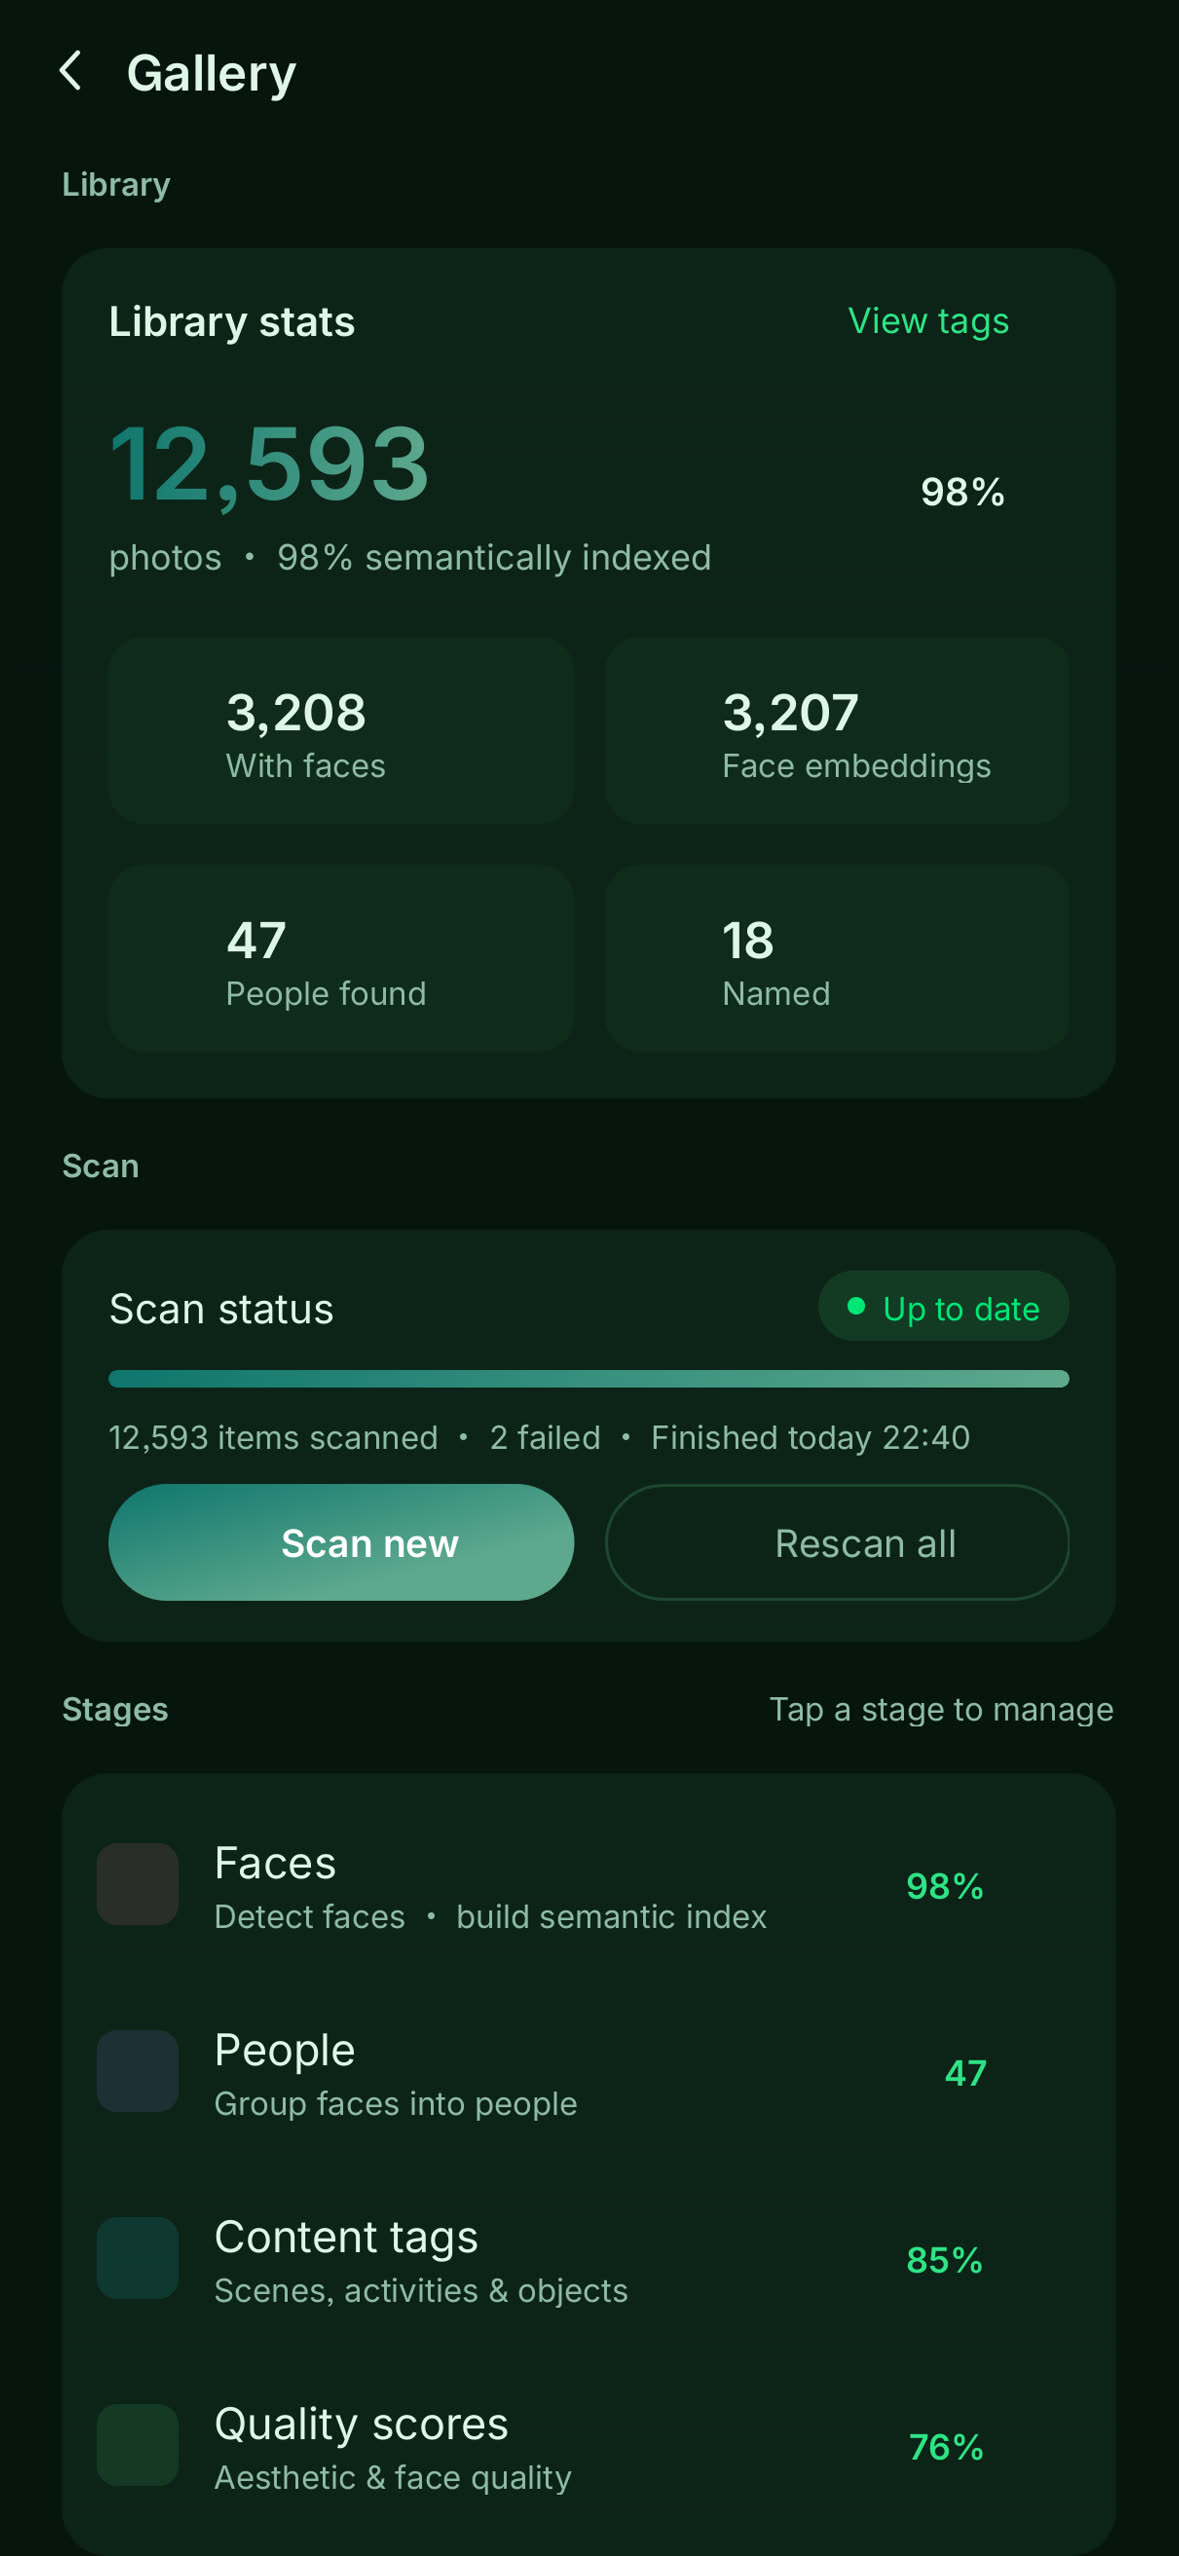
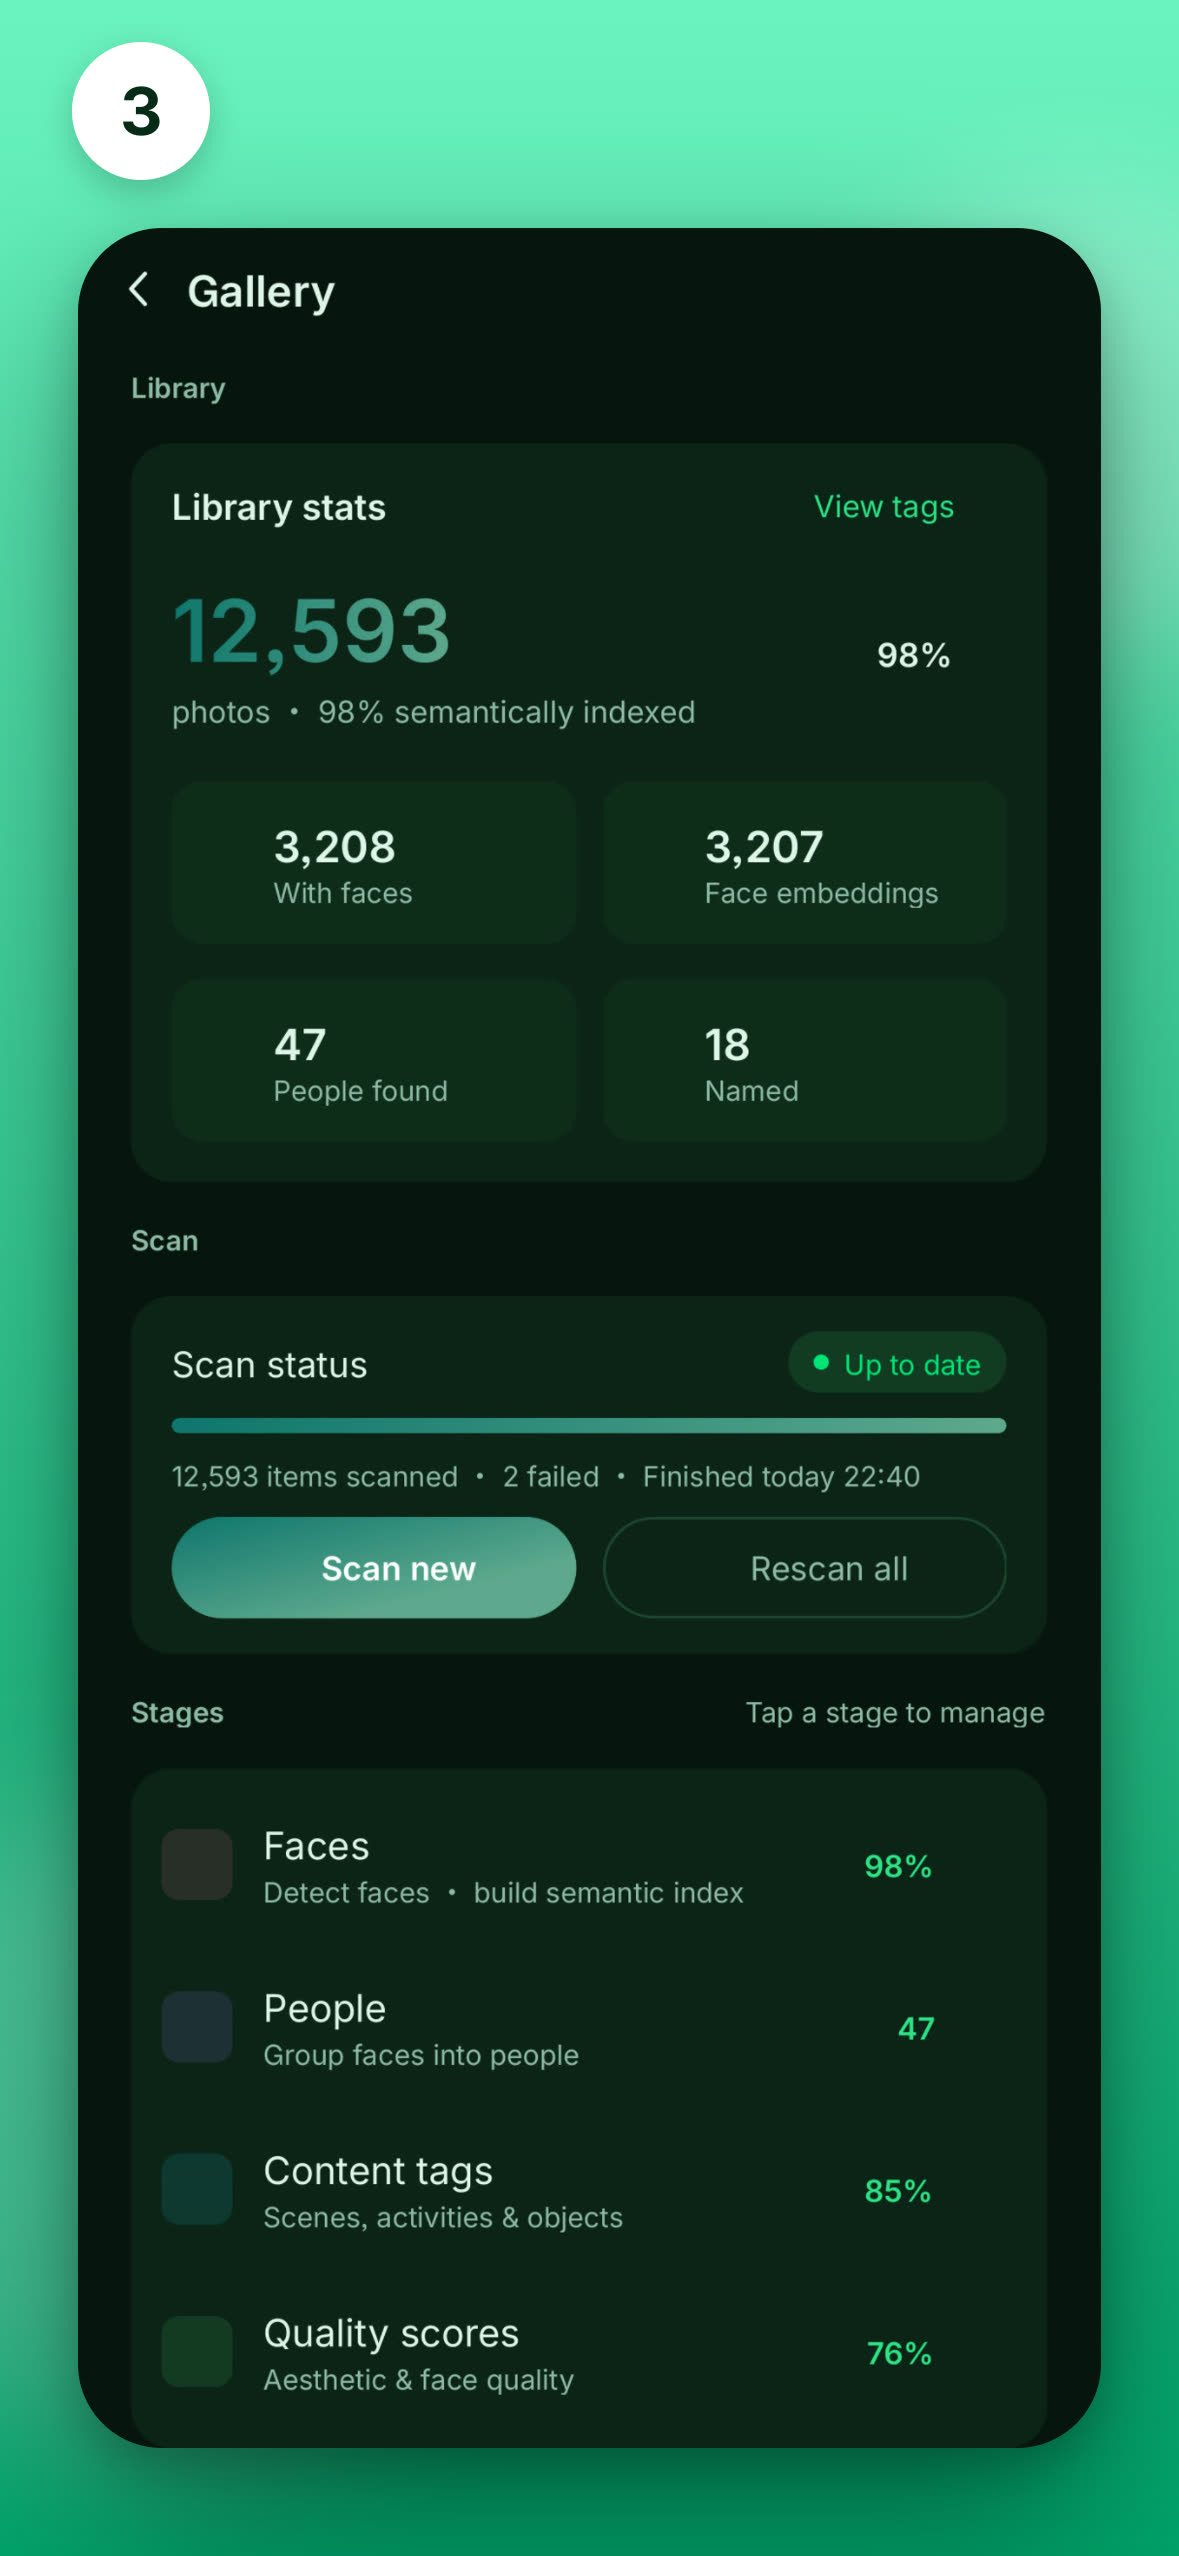
feat(site): 上手指南图升级为广告级营销卡——渐变舞台+步骤徽章+圆角屏卡
- 画布新增 guide-promo 帧组(152:1 页 y6660,8 帧可复用): 薄荷→翠绿纵向
  渐变舞台(跨度加大)+白色圆形步骤徽章(0-6/✓,Sarasa Bold 深绿数字)+
  341×740 圆角深色屏卡(双层柔影 0/28/64 + 0/6/16)+双柔光斑(blur 44-52,
  22-25% 白),与商店营销帧同源视觉语言
- 内嵌图=上轮整屏成品(中/英各灌一轮导出,画布终态=中文);全部
  1179×2556,zh/en 独立渲染,tw 沿用 zh
- 评审采纳: 首卡徽章 ▸→0(起点直觉);全组风格/比例统一获'准广告级'
  评价(85-90),小字'错字'均为缩略图误读
- 双站已部署,?v=20260918-5,xuxingzhiyuan.cn 字节核对一致

diff --git a/docs-site/index.html b/docs-site/index.html
@@ -89,13 +89,13 @@
       <div class="guide-carousel" id="guideCarousel">
         <div class="guide-viewport">
           <div class="guide-track">
-            <div class="guide-slide"><img src="assets/setup-1.jpg?v=20260918-4" alt="下载必备模型"><div class="guide-cap"><span class="gs">第 1 步</span><h3>📦 下载必备模型</h3><p>相册的打标、人脸识别、语义搜索都依赖端侧 AI 模型。在「模型中心 → 必须」一键下载，共 <b>7 个模型、约 1.5 GB</b>。</p><div class="gtags"><span class="gtag must">必需</span><span class="gtag">≈ 1.5 GB</span><span class="gtag">建议 WiFi</span></div></div></div>
-            <div class="guide-slide"><img src="assets/setup-2.jpg?v=20260918-4" alt="跑一次扫描"><div class="guide-cap"><span class="gs">第 2 步</span><h3>🔄 跑一次扫描</h3><p>进入底部 Tab「相册整理」→「扫描」开始扫描，让 App 认识相册里的人和画面（人脸 + 语义），约 <b>1.5 小时 / 万张</b>。记得开启<b>后台保活</b>。</p><div class="gtags"><span class="gtag must">必需</span><span class="gtag">~1.5 h / 万张</span></div></div></div>
-            <div class="guide-slide"><img src="assets/setup-3.jpg?v=20260918-4" alt="理解图片内容"><div class="guide-cap"><span class="gs">第 3 步</span><h3>🧠 理解图片内容</h3><p>想让「搜海边」「找夜景」更准？再跑一遍图片内容理解，生成场景、物体、活动标签，约 <b>24 小时 / 万张</b>，建议插电过夜。</p><div class="gtags"><span class="gtag opt">可选增强</span><span class="gtag">~24 h / 万张</span></div></div></div>
-            <div class="guide-slide"><img src="assets/setup-4.jpg?v=20260918-4" alt="注册账号领额度"><div class="guide-cap"><span class="gs">第 4 步</span><h3>🔑 注册账号领额度</h3><p>AI 对话默认走远程大模型，邮箱注册即享<b>更高的免费额度</b>（访客额度较少），对话需联网。</p><div class="gtags"><span class="gtag">远程对话</span><span class="gtag">免费额度</span></div></div></div>
-            <div class="guide-slide"><img src="assets/setup-5.jpg?v=20260918-4" alt="教 AI 认识你的人"><div class="guide-cap"><span class="gs">第 5 步</span><h3>👥 教 AI 认识你的人</h3><p>给识别出的人物<b>命名、标注关系</b>（家人 / 朋友…），并在「<b>AI 记忆</b>」补充事实，AI 在对话中会越来越懂你。</p><div class="gtags"><span class="gtag opt">让 AI 更聪明</span><span class="gtag">人物关系</span></div></div></div>
-            <div class="guide-slide"><img src="assets/setup-6.jpg?v=20260918-4" alt="远程控制"><div class="guide-cap"><span class="gs">第 6 步</span><h3>📡 远程控制（可选）</h3><p>配置<b>飞书 / Telegram</b>，在 IM 里用自然语言指挥相册，结果直接回到聊天。Telegram 长轮询，<b>无需公网 IP</b>。</p><div class="gtags"><span class="gtag opt">进阶</span><span class="gtag">飞书 / Telegram</span></div></div></div>
-            <div class="guide-slide"><img src="assets/setup-preview.jpg?v=20260918-4" alt="准备就绪"><div class="guide-cap"><span class="gs">准备就绪</span><h3>✨ 对 AI 说句话试试</h3><p>「找去年夏天在海边的照片」——命中相关照片并智能分组。所有搜索、人物、场景识别都<b>在本地完成</b>，照片不上传。</p><div class="gtags"><span class="gtag">本地隐私</span><span class="gtag">自然语言搜索</span></div></div></div>
+            <div class="guide-slide"><img src="assets/setup-1.jpg?v=20260918-5" alt="下载必备模型"><div class="guide-cap"><span class="gs">第 1 步</span><h3>📦 下载必备模型</h3><p>相册的打标、人脸识别、语义搜索都依赖端侧 AI 模型。在「模型中心 → 必须」一键下载，共 <b>7 个模型、约 1.5 GB</b>。</p><div class="gtags"><span class="gtag must">必需</span><span class="gtag">≈ 1.5 GB</span><span class="gtag">建议 WiFi</span></div></div></div>
+            <div class="guide-slide"><img src="assets/setup-2.jpg?v=20260918-5" alt="跑一次扫描"><div class="guide-cap"><span class="gs">第 2 步</span><h3>🔄 跑一次扫描</h3><p>进入底部 Tab「相册整理」→「扫描」开始扫描，让 App 认识相册里的人和画面（人脸 + 语义），约 <b>1.5 小时 / 万张</b>。记得开启<b>后台保活</b>。</p><div class="gtags"><span class="gtag must">必需</span><span class="gtag">~1.5 h / 万张</span></div></div></div>
+            <div class="guide-slide"><img src="assets/setup-3.jpg?v=20260918-5" alt="理解图片内容"><div class="guide-cap"><span class="gs">第 3 步</span><h3>🧠 理解图片内容</h3><p>想让「搜海边」「找夜景」更准？再跑一遍图片内容理解，生成场景、物体、活动标签，约 <b>24 小时 / 万张</b>，建议插电过夜。</p><div class="gtags"><span class="gtag opt">可选增强</span><span class="gtag">~24 h / 万张</span></div></div></div>
+            <div class="guide-slide"><img src="assets/setup-4.jpg?v=20260918-5" alt="注册账号领额度"><div class="guide-cap"><span class="gs">第 4 步</span><h3>🔑 注册账号领额度</h3><p>AI 对话默认走远程大模型，邮箱注册即享<b>更高的免费额度</b>（访客额度较少），对话需联网。</p><div class="gtags"><span class="gtag">远程对话</span><span class="gtag">免费额度</span></div></div></div>
+            <div class="guide-slide"><img src="assets/setup-5.jpg?v=20260918-5" alt="教 AI 认识你的人"><div class="guide-cap"><span class="gs">第 5 步</span><h3>👥 教 AI 认识你的人</h3><p>给识别出的人物<b>命名、标注关系</b>（家人 / 朋友…），并在「<b>AI 记忆</b>」补充事实，AI 在对话中会越来越懂你。</p><div class="gtags"><span class="gtag opt">让 AI 更聪明</span><span class="gtag">人物关系</span></div></div></div>
+            <div class="guide-slide"><img src="assets/setup-6.jpg?v=20260918-5" alt="远程控制"><div class="guide-cap"><span class="gs">第 6 步</span><h3>📡 远程控制（可选）</h3><p>配置<b>飞书 / Telegram</b>，在 IM 里用自然语言指挥相册，结果直接回到聊天。Telegram 长轮询，<b>无需公网 IP</b>。</p><div class="gtags"><span class="gtag opt">进阶</span><span class="gtag">飞书 / Telegram</span></div></div></div>
+            <div class="guide-slide"><img src="assets/setup-preview.jpg?v=20260918-5" alt="准备就绪"><div class="guide-cap"><span class="gs">准备就绪</span><h3>✨ 对 AI 说句话试试</h3><p>「找去年夏天在海边的照片」——命中相关照片并智能分组。所有搜索、人物、场景识别都<b>在本地完成</b>，照片不上传。</p><div class="gtags"><span class="gtag">本地隐私</span><span class="gtag">自然语言搜索</span></div></div></div>
           </div>
         </div>
         <button class="guide-arrow guide-prev" aria-label="上一张">‹</button>

diff --git a/docs-site/getting-started.html b/docs-site/getting-started.html
@@ -160,7 +160,7 @@
           <h3>📦 一切从「设置」和底部「相册整理」开始</h3>
           <p>模型下载、账号、人物与远程通道在 App 的「设置」里；扫描入口在底部 Tab「相册整理」→「扫描」。下面每一步都标注了具体入口，界面以最新版本为准。</p>
         </div>
-        <img class="shot" src="assets/setup-entry.jpg?v=20260918-4" alt="设置页入口总览">
+        <img class="shot" src="assets/setup-entry.jpg?v=20260918-5" alt="设置页入口总览">
       </div>
 
       <div class="steps">
@@ -171,12 +171,12 @@
             <p class="step-desc">相册的打标、人脸识别、语义搜索都依赖端侧 AI 模型。进入<b>「模型中心 → 必须」</b>一键下载（共 7 个，约 1.5 GB）。「推荐」里的抠图、语音模型可按需下载。</p>
             <div class="tags"><span class="tag must">必需</span><span class="tag">≈ 1.5 GB</span><span class="tag">建议 WiFi</span></div>
           </div>
-          <div class="step-img"><img src="assets/setup-1.jpg?v=20260918-4" alt="模型中心 · 必须模型"></div>
+          <div class="step-img"><img src="assets/setup-1.jpg?v=20260918-5" alt="模型中心 · 必须模型"></div>
         </div>
 
         <!-- Step 2 -->
         <div class="step alt">
-          <div class="step-img"><img src="assets/setup-2.jpg?v=20260918-4" alt="TAG 生成控制 · 扫描中"></div>
+          <div class="step-img"><img src="assets/setup-2.jpg?v=20260918-5" alt="TAG 生成控制 · 扫描中"></div>
           <div class="step-text">
             <div class="step-head"><span class="step-num">2</span><span class="step-title">跑一次 Pass 1 扫描</span></div>
             <p class="step-desc">让 App 认识你相册里的<b>人和画面</b>。进入底部 Tab<b>「相册整理」→「扫描」</b>开始扫描（人脸检测 + 语义编码，约 1.5 小时 / 万张）。记得按提示开启<b>后台保活</b>，否则退到后台可能被系统暂停。界面以最新版本为准。</p>
@@ -191,12 +191,12 @@
             <p class="step-desc">想让「搜海边」「找夜景」「一家人野餐」搜得更准？再跑一遍<b>「图片内容理解」</b>，为每张照片生成场景、物体、活动标签。约 24 小时 / 万张，<b>建议插电过夜</b>。可随时暂停，已处理的不重复。</p>
             <div class="tags"><span class="tag opt">可选增强</span><span class="tag">~24 h / 万张</span></div>
           </div>
-          <div class="step-img"><img src="assets/setup-3.jpg?v=20260918-4" alt="TAG 生成控制 · 三阶段概览"></div>
+          <div class="step-img"><img src="assets/setup-3.jpg?v=20260918-5" alt="TAG 生成控制 · 三阶段概览"></div>
         </div>
 
         <!-- Step 4 -->
         <div class="step alt">
-          <div class="step-img"><img src="assets/setup-4.jpg?v=20260918-4" alt="账号 · 免费额度"></div>
+          <div class="step-img"><img src="assets/setup-4.jpg?v=20260918-5" alt="账号 · 免费额度"></div>
           <div class="step-text">
             <div class="step-head"><span class="step-num">4</span><span class="step-title">注册账号领额度</span></div>
             <p class="step-desc">AI 对话<b>默认走远程大模型</b>，体验最佳。用邮箱注册账号即可获得更高的<b>免费额度</b>（访客额度较少），用完会有降级提示。</p>
@@ -211,12 +211,12 @@
             <p class="step-desc">扫描后会自动识别人物。给每个人<b>命名、标注关系</b>（家人 / 朋友 / 同事…），再在<b>「AI 记忆」</b>里补充一些事实，AI 在对话中就会越来越懂你。</p>
             <div class="tags"><span class="tag opt">让 AI 更聪明</span><span class="tag">人物关系</span></div>
           </div>
-          <div class="step-img"><img src="assets/setup-5.jpg?v=20260918-4" alt="编辑人物 · 名称与关系"></div>
+          <div class="step-img"><img src="assets/setup-5.jpg?v=20260918-5" alt="编辑人物 · 名称与关系"></div>
         </div>
 
         <!-- Step 6 -->
         <div class="step alt">
-          <div class="step-img"><img src="assets/setup-6.jpg?v=20260918-4" alt="通信通道 · 飞书 / Telegram"></div>
+          <div class="step-img"><img src="assets/setup-6.jpg?v=20260918-5" alt="通信通道 · 飞书 / Telegram"></div>
           <div class="step-text">
             <div class="step-head"><span class="step-num">6</span><span class="step-title">（可选）远程控制</span></div>
             <p class="step-desc">配置<b>飞书 / Telegram</b> 通道，就能在 IM 里用自然语言指挥相册（如「把昨天的风景照发我」），结果直接回到聊天。Telegram 长轮询连接，<b>无需公网 IP</b>。</p>
@@ -236,7 +236,7 @@
           <p class="say">「找去年夏天在海边的照片」</p>
           <p class="do">🗂 命中相关照片，按时间智能分组 —— 一切搜索、人物、场景识别都在你的手机本地完成，照片不会上传。</p>
         </div>
-        <div class="step-img"><img src="assets/setup-preview.jpg?v=20260918-4" alt="AI 助手小浪 · 自然语言搜索"></div>
+        <div class="step-img"><img src="assets/setup-preview.jpg?v=20260918-5" alt="AI 助手小浪 · 自然语言搜索"></div>
       </div>
     </div>
   </section>
